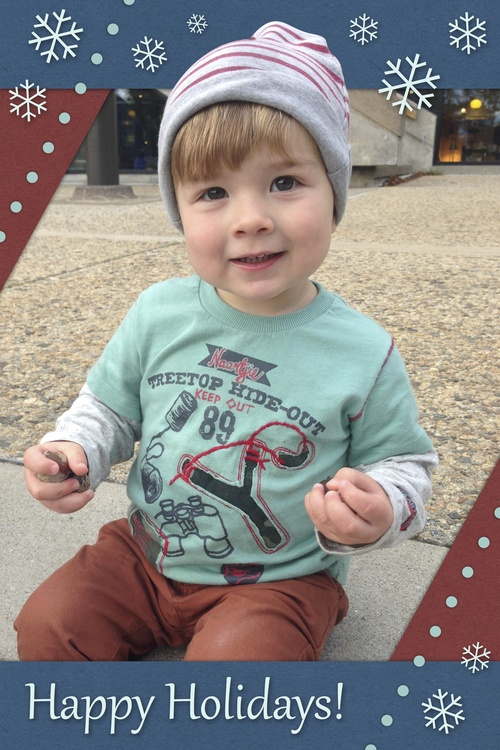
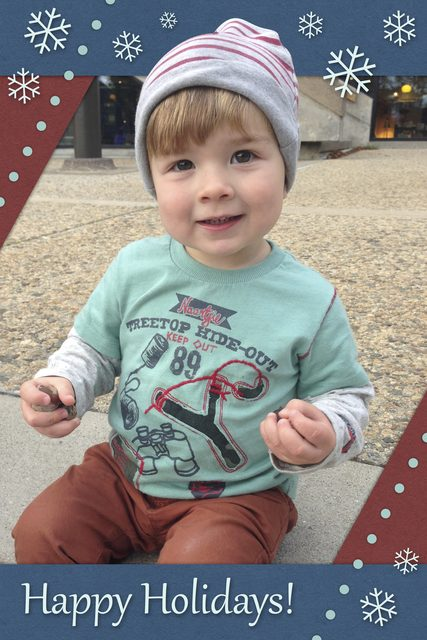
Generate web-sized images from masters, cutting 21.5 MB to 1.4 MB
Several served images were far larger than the slot they display in.
design/jthaler_BOOST2019_Poster.png was 8.7 MB at 3300x5100 to fill a
128-pixel-tall thumbnail, a 40x linear oversample, and /holiday shipped
11.3 MB of previews that were only 500x750 but badly compressed.

Nothing is lost and the resize is reversible, because every derivative is
generated from a master the script only reads:

  served                  master                        also linked as
  design/*.png            _images/masters/design/*.png  design/*.pdf (vector)
  holiday/preview/*.jpg   holiday/*.jpg                 click-through target

The holiday masters were already there and already the link target. The
design PNGs are moved under _images/, which Jekyll does not publish -- the
same reason _data/, _cv/ and _reporting/ are absent from the site,
verified against the live site rather than assumed. Pure downscaling from
those rather than re-rendering the PDFs, so appearance is unchanged; the
vector PDFs remain if a true re-render is ever wanted.

Target sizes are read from the built HTML: the script maps each image's
.image-h--* class through the $image scale in _sass, then doubles it for
high-density screens. Restyle an image and its derivative size follows,
rather than being a number someone typed once.

Idempotent, and checked to be: re-running produces byte-identical output,
because the masters are never written to. Resizing back up means changing
RETINA and re-running.
[…]

diff --git a/_images/make_derivatives.py b/_images/make_derivatives.py
@@ -1,0 +1,135 @@
+# Regenerates the web-sized images the site serves, from full-resolution masters.
+#
+# Why this exists: several served images were enormously larger than the size
+# they display at -- /design/jthaler_BOOST2019_Poster.png was 8.7 MB at
+# 3300x5100 pixels to fill a 128-pixel-tall slot, and /personal carried 17.9 MB
+# of images in total.
+#
+# Nothing is lost, and resizing is reversible, because every derivative is
+# generated from a master that this script only ever reads:
+#
+#   served                        master                              also linked as
+#   design/*.png                  _images/masters/design/*.png        design/*.pdf (vector)
+#   holiday/preview/*.jpg         holiday/*.jpg                       the click-through target
+#
+# Masters live under _images/, which Jekyll never publishes -- the same reason
+# _data/, _cv/ and _reporting/ are absent from the site. To go back up, change
+# RETINA below (or the CSS) and re-run; the masters are untouched, so this is
+# idempotent and can be run as often as you like.
+#
+# Run from the repo root, after a build so that _site/ exists:
+#
+#   bundle exec jekyll build && python3 _images/make_derivatives.py
+#
+# Requires Pillow: python3 -m pip install --user Pillow
+
+import glob
+import os
+import re
+import sys
+
+from PIL import Image
+
+# Target this multiple of the CSS display size, so the images stay sharp on
+# high-density screens. 2 is the usual choice.
+RETINA = 2
+
+# Display heights the .image-h--* classes set, from $image in
+# _sass/common/_variables.scss (rem values at the 16px root size). Keeping this
+# here rather than hardcoding per-file sizes means the targets follow the markup:
+# restyle an image and its derivative size follows on the next run.
+DISPLAY_HEIGHT = {
+    "image-h--xl": 320,   # 20rem
+    "image-h--lg": 256,   # 16rem
+    "image-h--sm": 128,   # 8rem
+    "image-h--xs": 64,    # 4rem
+    "image-h": 192,       # 12rem, the bare class
+}
+FALLBACK_HEIGHT = 192
+
+# served glob -> how to find that file's master
+GROUPS = [
+    ("design/*.png", lambda p: os.path.join("_images/masters/design", os.path.basename(p))),
+    ("holiday/preview/*.jpg", lambda p: os.path.join("holiday", os.path.basename(p))),
+]
+
+JPEG_QUALITY = 82
+
+
+def displayed_heights():
+    """Map each served image path to the tallest height any page displays it at.
+
+    Read from the built HTML rather than declared by hand, so the numbers cannot
+    drift away from the markup. An image shown at several sizes gets the largest.
+    """
+    heights = {}
+    for root, _dirs, files in os.walk("_site"):
+        for name in files:
+            if not name.endswith(".html"):
+                continue
+            with open(os.path.join(root, name), encoding="utf-8") as fh:
+                html = fh.read()
+            for tag in re.findall(r"<img[^>]*>", html):
+                src = re.search(r'src="/([^"]+)"', tag)
+                if not src:
+                    continue
+                classes = re.search(r'class="([^"]*)"', tag)
+                classes = classes.group(1) if classes else ""
+                # --xl before the bare class, so "image-h image-h--xl" matches --xl.
+                height = next(
+                    (v for k, v in DISPLAY_HEIGHT.items() if k in classes),
+                    FALLBACK_HEIGHT,
+                )
+                path = src.group(1)
+                heights[path] = max(heights.get(path, 0), height)
+    return heights
+
+
+def main():
+    if not os.path.isdir("_site"):
+        sys.exit("No _site/ -- run `bundle exec jekyll build` first, so display sizes can be read.")
+
+    heights = displayed_heights()
+    before = after = 0
+    resized = skipped = 0
+
+    for pattern, master_of in GROUPS:
+        for served in sorted(glob.glob(pattern)):
+            master = master_of(served)
+            if not os.path.isfile(master):
+                print("  no master, left alone:  %s" % served)
+                skipped += 1
+                continue
+
+            target = RETINA * heights.get(served, FALLBACK_HEIGHT)
+            with Image.open(master) as im:
+                if im.height <= target:
+                    # Master is already no bigger than we want; copying it would
+                    # only re-encode and lose a little quality for nothing.
+                    print("  master already small: %s" % served)
+                    skipped += 1
+                    continue
+                width = round(im.width * target / im.height)
+                out = im.resize((width, target), Image.LANCZOS)
+                old = os.path.getsize(served)
+                if served.lower().endswith((".jpg", ".jpeg")):
+                    out.convert("RGB").save(served, "JPEG", quality=JPEG_QUALITY,
+                                            optimize=True, progressive=True)
+                else:
+                    out.save(served, "PNG", optimize=True)
+                new = os.path.getsize(served)
+
+            before += old
+            after += new
+            resized += 1
+            print("  %-44s %5dx%-5d  %6dKB -> %5dKB" % (
+                served, width, target, old // 1024, new // 1024))
+
+    print("\n  resized %d, skipped %d" % (resized, skipped))
+    if before:
+        print("  %.1f MB -> %.1f MB  (%.0f%% smaller)" % (
+            before / 1e6, after / 1e6, 100 * (1 - after / before)))
+
+
+if __name__ == "__main__":
+    main()
